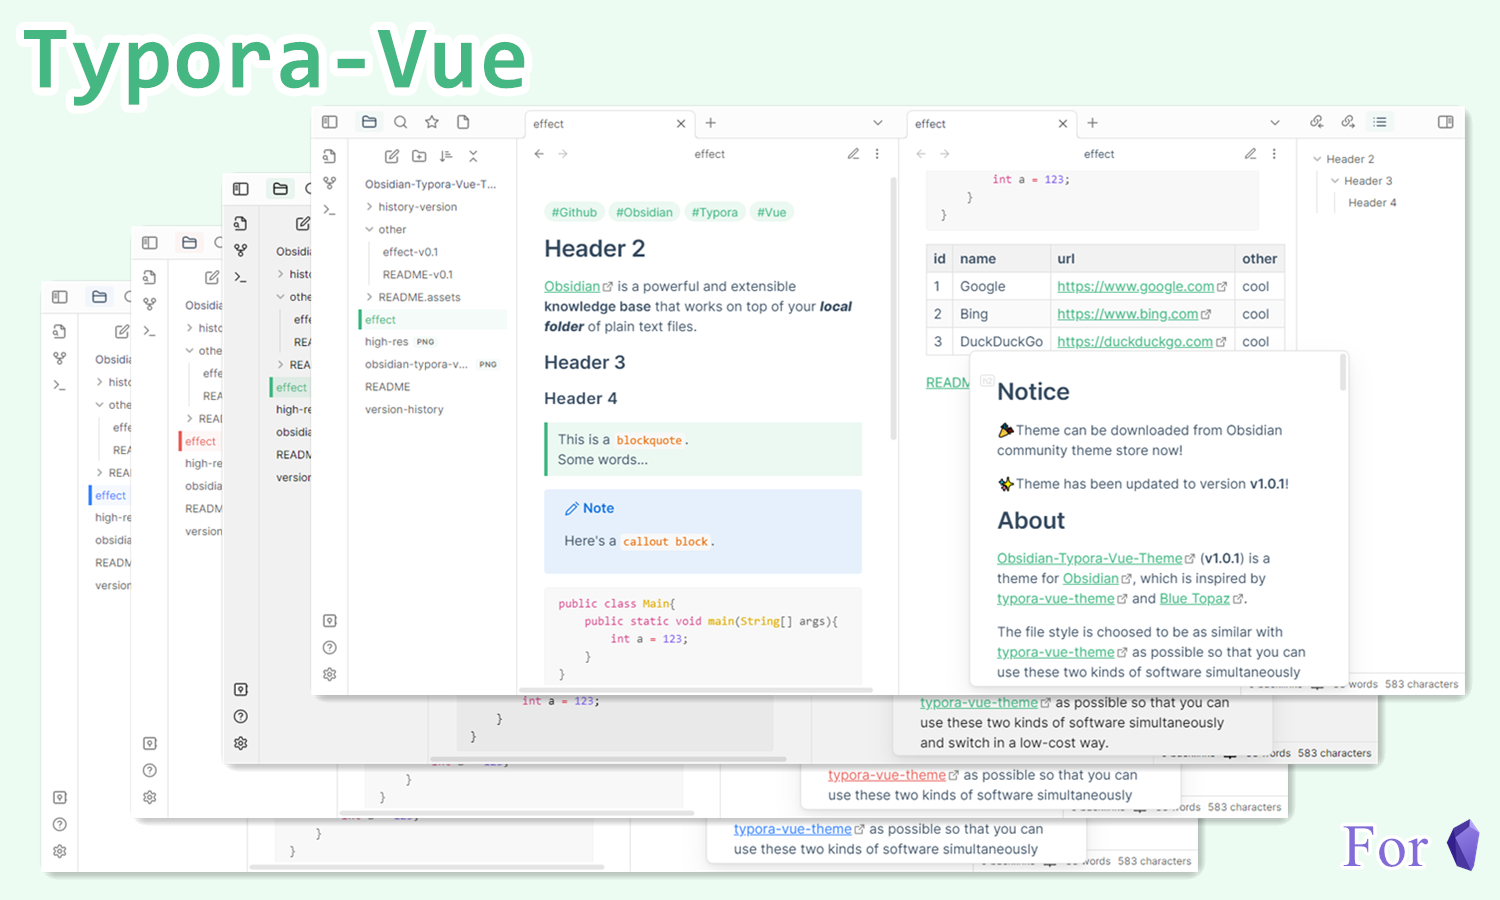
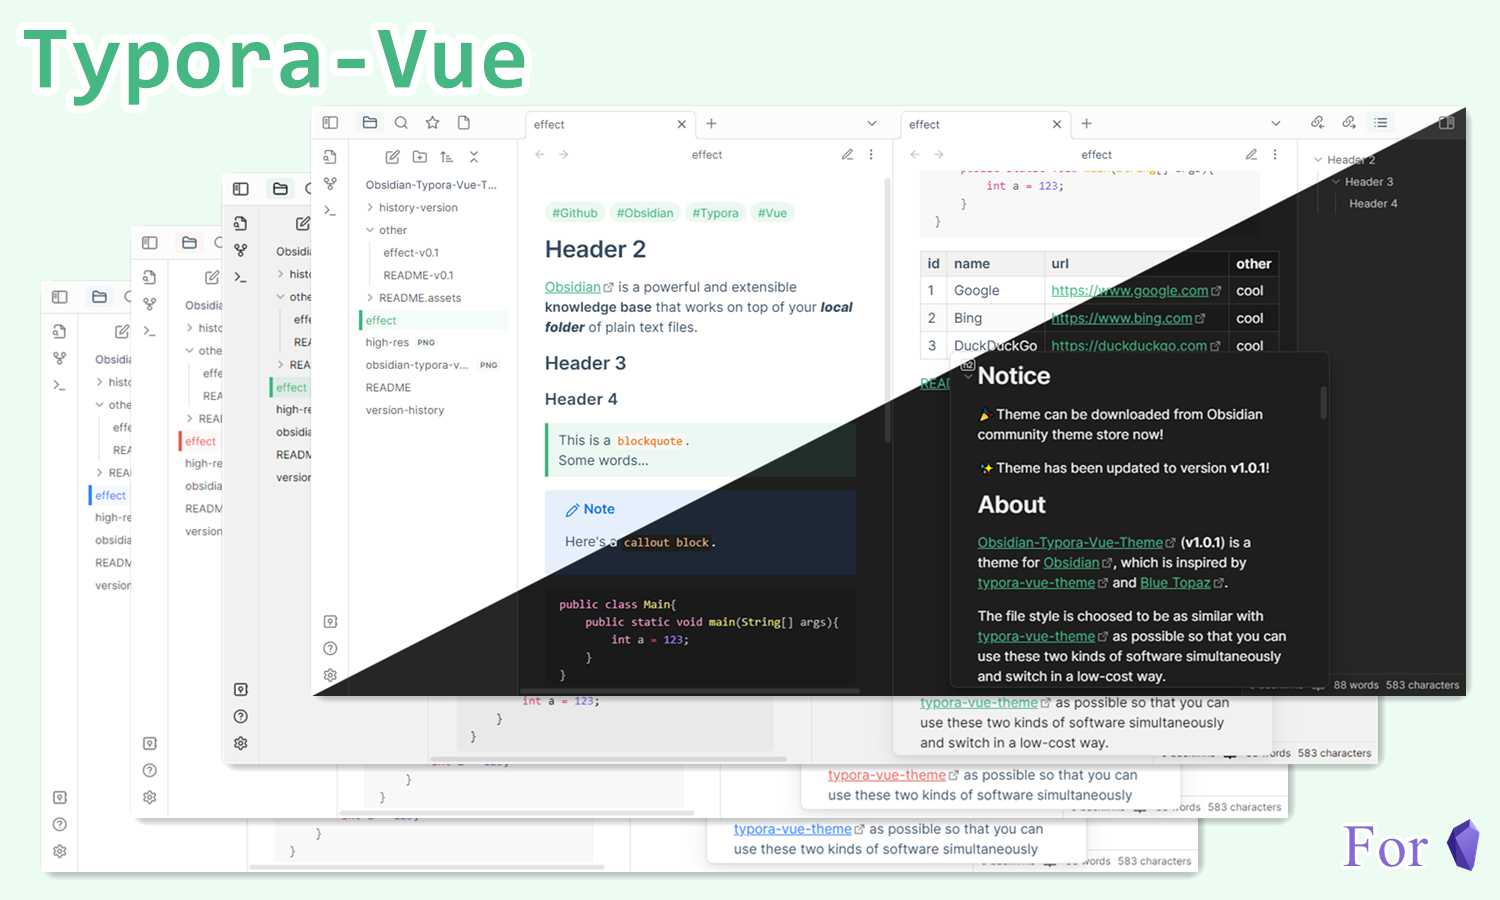
:sparkles: Update new version v1.0.2 2023-03-12 16:15:28

diff --git a/obsidian.css b/obsidian.css
@@ -1,23 +1,19 @@
 /*
-[Obsidian-Typora-Vue-Theme](https://github.com/ZekunC/Obsidian-Typora-Vue-Theme) (**v1.0.1**) is a theme for [Obsidian](https://obsidian.md/), which is inspired by [typora-vue-theme](https://github.com/blinkfox/typora-vue-theme)and [Blue Topaz](https://github.com/whyt-byte/Blue-Topaz_Obsidian-css/).
+[Obsidian-Typora-Vue-Theme](https://github.com/ZekunC/Obsidian-Typora-Vue-Theme) (**v1.0.2**) is a theme for [Obsidian](https://obsidian.md/), which is inspired by [typora-vue-theme](https://github.com/blinkfox/typora-vue-theme)and [Blue Topaz](https://github.com/whyt-byte/Blue-Topaz_Obsidian-css/).
 */
 
 /* The primary color is #42b983 or #42b883.*/
 body{
-	--text-normal: #34495e;
 	--accent-h: 153;
     --accent-s: 47%;
     --accent-l: 49%;
 	--icon-color-hover: hsl(var(--interactive-accent-hsl));	
 	--background-modifier-message: hsl(var(--interactive-accent-hsl));
     --background-modifier-hover: hsla(var(--interactive-accent-hsl), 0.05);
-    --background-secondary: #ffffff;
 	--nav-item-color-hover: hsl(var(--interactive-accent-hsl));
     --nav-item-color-active: hsl(var(--interactive-accent-hsl));
-	--code-background: #f8f8f8;
 	--table-header-weight: var(--bold-weight);
 	--table-header-color: var(--text-normal);
-	--table-row-background-hover: #f2f2f2;
 	--h1-size: 2.2em;
 	--h2-size: 1.75em;
 	--h3-size: 1.4em;
@@ -26,6 +22,28 @@ body{
 	--h6-size: 1em;
 }
 
+.theme-light{
+	--text-normal: #34495e;
+	--background-secondary: #ffffff;
+	--code-background: #f8f8f8;
+	--cus-inline-code-text: #e96900;
+	--cus-code-block-border: #f4f4f4;
+	--cus-table-header: #f2f2f2;
+	--cus-table-gap-tr: #fafafa;
+	--table-row-background-hover: #f2f2f2;
+	--cus-highlight-cursor-line: rgba(245,204,142,0.12);
+}
+
+.theme-dark{
+	--text-normal: #EEEEEE;
+	--code-background: #1a1a1a;
+	--cus-inline-code-text: #f3b37f;
+	--cus-code-block-border: #1c1c1c;
+	--cus-table-header: #171717;
+	--cus-table-gap-tr: #1a1a1a;
+	--table-row-background-hover: #171717;
+	--cus-highlight-cursor-line: rgba(225,225,225, 0.12);
+}
 
 /* blockquote BEGIN*/
 .markdown-rendered blockquote{
@@ -50,41 +68,41 @@ body{
 }
 
 .cm-s-obsidian span.cm-inline-code{
-	color: #e96900;
+	color: var(--cus-inline-code-text);
 }
 
 .markdown-rendered p code{
-	color: #e96900;
+	color: var(--cus-inline-code-text);
 }
 
 .markdown-rendered pre{
-	border:1px solid #f4f4f4;
+	border:1px solid var(--cus-code-block-border);
 }
 
 .cm-s-obsidian div.HyperMD-codeblock-begin-bg{
-	border-top: 1px solid #f4f4f4;
+	border-top: 1px solid var(--cus-code-block-border);
 }
 
 .cm-s-obsidian div.HyperMD-codeblock-end-bg{
-	border-bottom: 1px solid #f4f4f4;
+	border-bottom: 1px solid var(--cus-code-block-border);
 }
 
 .markdown-source-view.mod-cm6 .cm-line.HyperMD-codeblock{
-	border-left: 1px solid #f4f4f4;
-	border-right: 1px solid #f4f4f4;
+	border-left: 1px solid var(--cus-code-block-border);
+	border-right: 1px solid var(--cus-code-block-border);
 }
 /* code block END*/
 
 
 /* table BEGIN*/
 table thead{
-	background-color: #f2f2f2;
+	background-color: var(--cus-table-header);
 	font-weight: bold;
 }
 
 table tr:nth-child(2n),
 thead {
-    background-color: #fafafa;
+    background-color: var(--cus-table-gap-tr);
 }
 /* table END*/
 
@@ -186,7 +204,7 @@ thead {
 
 /*Cursor line BEGIN*/
 .cm-active.cm-line{
-	background:rgba(245,204,142,0.12) !important;
+	background:var(--cus-highlight-cursor-line) !important;
 }
 /*Cursor line END*/
 

diff --git a/theme.css b/theme.css
@@ -1,23 +1,19 @@
 /*
-[Obsidian-Typora-Vue-Theme](https://github.com/ZekunC/Obsidian-Typora-Vue-Theme) (**v1.0.1**) is a theme for [Obsidian](https://obsidian.md/), which is inspired by [typora-vue-theme](https://github.com/blinkfox/typora-vue-theme)and [Blue Topaz](https://github.com/whyt-byte/Blue-Topaz_Obsidian-css/).
+[Obsidian-Typora-Vue-Theme](https://github.com/ZekunC/Obsidian-Typora-Vue-Theme) (**v1.0.2**) is a theme for [Obsidian](https://obsidian.md/), which is inspired by [typora-vue-theme](https://github.com/blinkfox/typora-vue-theme)and [Blue Topaz](https://github.com/whyt-byte/Blue-Topaz_Obsidian-css/).
 */
 
 /* The primary color is #42b983 or #42b883.*/
 body{
-	--text-normal: #34495e;
 	--accent-h: 153;
     --accent-s: 47%;
     --accent-l: 49%;
 	--icon-color-hover: hsl(var(--interactive-accent-hsl));	
 	--background-modifier-message: hsl(var(--interactive-accent-hsl));
     --background-modifier-hover: hsla(var(--interactive-accent-hsl), 0.05);
-    --background-secondary: #ffffff;
 	--nav-item-color-hover: hsl(var(--interactive-accent-hsl));
     --nav-item-color-active: hsl(var(--interactive-accent-hsl));
-	--code-background: #f8f8f8;
 	--table-header-weight: var(--bold-weight);
 	--table-header-color: var(--text-normal);
-	--table-row-background-hover: #f2f2f2;
 	--h1-size: 2.2em;
 	--h2-size: 1.75em;
 	--h3-size: 1.4em;
@@ -26,6 +22,28 @@ body{
 	--h6-size: 1em;
 }
 
+.theme-light{
+	--text-normal: #34495e;
+	--background-secondary: #ffffff;
+	--code-background: #f8f8f8;
+	--cus-inline-code-text: #e96900;
+	--cus-code-block-border: #f4f4f4;
+	--cus-table-header: #f2f2f2;
+	--cus-table-gap-tr: #fafafa;
+	--table-row-background-hover: #f2f2f2;
+	--cus-highlight-cursor-line: rgba(245,204,142,0.12);
+}
+
+.theme-dark{
+	--text-normal: #EEEEEE;
+	--code-background: #1a1a1a;
+	--cus-inline-code-text: #f3b37f;
+	--cus-code-block-border: #1c1c1c;
+	--cus-table-header: #171717;
+	--cus-table-gap-tr: #1a1a1a;
+	--table-row-background-hover: #171717;
+	--cus-highlight-cursor-line: rgba(225,225,225, 0.12);
+}
 
 /* blockquote BEGIN*/
 .markdown-rendered blockquote{
@@ -50,41 +68,41 @@ body{
 }
 
 .cm-s-obsidian span.cm-inline-code{
-	color: #e96900;
+	color: var(--cus-inline-code-text);
 }
 
 .markdown-rendered p code{
-	color: #e96900;
+	color: var(--cus-inline-code-text);
 }
 
 .markdown-rendered pre{
-	border:1px solid #f4f4f4;
+	border:1px solid var(--cus-code-block-border);
 }
 
 .cm-s-obsidian div.HyperMD-codeblock-begin-bg{
-	border-top: 1px solid #f4f4f4;
+	border-top: 1px solid var(--cus-code-block-border);
 }
 
 .cm-s-obsidian div.HyperMD-codeblock-end-bg{
-	border-bottom: 1px solid #f4f4f4;
+	border-bottom: 1px solid var(--cus-code-block-border);
 }
 
 .markdown-source-view.mod-cm6 .cm-line.HyperMD-codeblock{
-	border-left: 1px solid #f4f4f4;
-	border-right: 1px solid #f4f4f4;
+	border-left: 1px solid var(--cus-code-block-border);
+	border-right: 1px solid var(--cus-code-block-border);
 }
 /* code block END*/
 
 
 /* table BEGIN*/
 table thead{
-	background-color: #f2f2f2;
+	background-color: var(--cus-table-header);
 	font-weight: bold;
 }
 
 table tr:nth-child(2n),
 thead {
-    background-color: #fafafa;
+    background-color: var(--cus-table-gap-tr);
 }
 /* table END*/
 
@@ -186,7 +204,7 @@ thead {
 
 /*Cursor line BEGIN*/
 .cm-active.cm-line{
-	background:rgba(245,204,142,0.12) !important;
+	background:var(--cus-highlight-cursor-line) !important;
 }
 /*Cursor line END*/
 

diff --git a/other/eye-protection-color.css b/other/eye-protection-color.css
@@ -21,7 +21,13 @@ body{
 }
 
 .cm-active.cm-line{
+	/* gray color*/
+	background:rgb(225 225 225 / 80%) !important;
+
+	/* orange color*/
+	/*
 	background:rgb(255 200 99 / 20%) !important
+	*/
 }
 
 table tr:nth-child(2n),

diff --git a/README.md b/README.md
@@ -4,25 +4,33 @@
 
 ## Notice
 
+🎈Dark mode is supported.
+
 🎉Theme can be downloaded from Obsidian community theme store now!
 
-✨Theme has been updated to version **v1.0.1**!
+✨Theme has been updated to version **v1.0.2**!
 
 ## About
 
-[Obsidian-Typora-Vue-Theme](https://github.com/ZekunC/Obsidian-Typora-Vue-Theme) (**v1.0.1**) is a theme for [Obsidian](https://obsidian.md/), which is inspired by [typora-vue-theme](https://github.com/blinkfox/typora-vue-theme) and [Blue Topaz](https://github.com/whyt-byte/Blue-Topaz_Obsidian-css/).
+[Obsidian-Typora-Vue-Theme](https://github.com/ZekunC/Obsidian-Typora-Vue-Theme) (**v1.0.2**) is a theme for [Obsidian](https://obsidian.md/), which is inspired by [typora-vue-theme](https://github.com/blinkfox/typora-vue-theme) and [Blue Topaz](https://github.com/whyt-byte/Blue-Topaz_Obsidian-css/).
 
 The file style is choosed  to be as similar with [typora-vue-theme](https://github.com/blinkfox/typora-vue-theme) as possible so that you can use these two kinds of software simultaneously and switch in a low-cost way. 
 
 ## Screenshot
 
+- Light Mode
+
 ![screenshot](high-res.png)
+
+- Dark Mode
+
+![dark](high-res-dark.png)
 
 ## Feature
 
 ### 1. Eye Protection Color Snippet
 
-You may think that the pure white background color is too bright to read, so I give an [./other/eye-protection-color.css](./other/eye-protection-color.css) snippet with modified gray color. You can use it **after installing this theme**.
+You may think that the pure white background color in light mode is too bright to read, so I give an [./other/eye-protection-color.css](./other/eye-protection-color.css) snippet with modified gray color. You can use it after installing this theme in **light mode**.
 
 ![](./README.assets/gray-color.png)
 

diff --git a/version-history.md b/version-history.md
@@ -1,7 +1,10 @@
-- 2023-01-23: [v1.0.1](./theme.css)
+- 2023-03-12: [v1.0.2](https://github.com/ZekunC/Obsidian-Typora-Vue-Theme/releases/tag/v1.0.2)
+	- Dark mode is supported.
+	- Modify cursor line highlight color in eye-proction-color from orange to gray.
+	- Screenshot and information see [README.md](./README.md) 
+- 2023-01-23: [v1.0.1](https://github.com/ZekunC/Obsidian-Typora-Vue-Theme/releases/tag/v1.0.1)
 	- Modify navigator background color and font color.
 	- Add navigator border color.
-	- Screenshot and information see [README.md](./README.md) .
 - 2022-11.28: [v1.0](./history-version/v1.0.css)  
 	- For Obsidian **v1.0** and later version.
 	- Rewrite code and only remain the most necessary styles.
